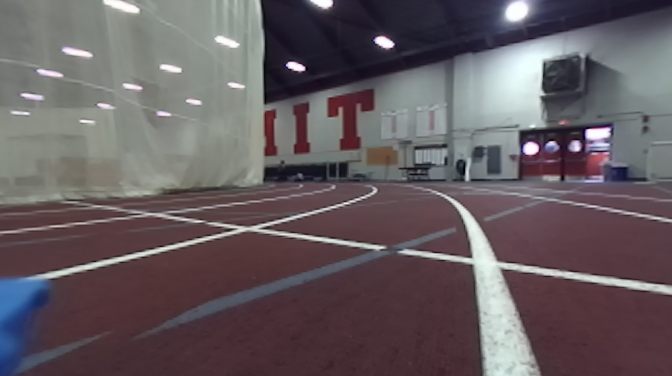
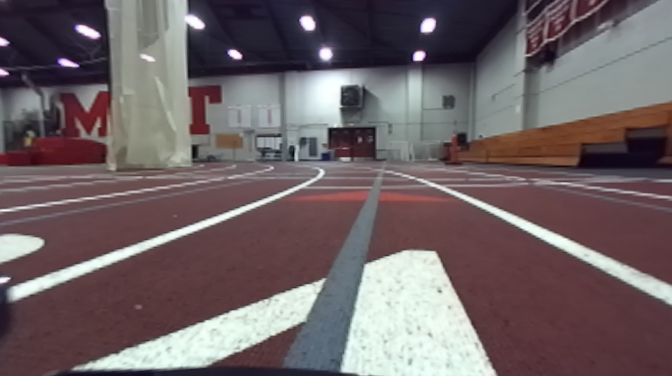
Made full loop forwards except hard part

diff --git a/src/computer_vision/color_segmentation.py b/src/computer_vision/color_segmentation.py
@@ -26,7 +26,7 @@ VERTICAL_OFFSET = 650 # Decreasing raises the height where we start obscuring vi
 # Line Following Parameters
 LEFT_BOUND = int(WIDTH*(2.5/10.0)) # Decreasing this ignores potential left lanes further right
 RIGHT_BOUND = int(WIDTH * (9.0/10.0))  # Increasing this ignores potential right lanes further left
-VERTICAL_SLOPE = 0.24 # What slope of line do we want to consider a lane?
+VERTICAL_SLOPE = 0.35 # What slope of line do we want to consider a lane?
 
 # Important Tuning Parameters
 LOOKAHEAD = int(float(HEIGHT) * 0.5) # Decreasing this makes the target point further away from the camera
@@ -91,16 +91,16 @@ def cd_color_segmentation(image, obstruct_view=True, visualize=False):
 	for line in lines:
 		x_1, y_1, x_2, y_2 = line[0]
 		slope, intercept = np.polyfit((x_1, x_2), (y_1, y_2), 1)
-		if slope < -VERTICAL_SLOPE and x_1 < LEFT_BOUND:
+		if slope < -VERTICAL_SLOPE and x_1 < LEFT_BOUND and x_2 < LEFT_BOUND:
 			left_lanes.append((slope, intercept))
 		elif slope > VERTICAL_SLOPE and x_1 < RIGHT_BOUND:
 			right_lanes.append((slope, intercept))
 
 	# Handle Missing Lane Recovery
 	if len(left_lanes) == 0:
-		left_lanes.append((-1.0,0))
+		left_lanes.append((-0.5,250))
 	if len(right_lanes) == 0:
-		right_lanes.append((0.5, -100))
+		right_lanes.append((0.5, -75))
 
 	# Fit average left and right lane estimate
 	left_slope, left_intercept = np.average(left_lanes, axis=0)

diff --git a/src/lane_detector.py b/src/lane_detector.py
@@ -25,7 +25,7 @@ class LaneDetector():
         # Subscribe to ZED camera RGB frames
         self.lane_pub = rospy.Publisher("/relative_lane_px", LaneLocationPixel, queue_size=10)
         self.debug_pub = rospy.Publisher("/lane_debug_img", Image, queue_size=10)
-        self.image_sub = rospy.Subscriber("/zed/zed_node/right/image_rect_color", Image, self.image_callback)
+        self.image_sub = rospy.Subscriber("/zed/zed_node/left/image_rect_color", Image, self.image_callback)
         self.bridge = CvBridge() # Converts between ROS images and OpenCV Images
 
     def image_callback(self, image_msg):

diff --git a/src/lane_pursuit.py b/src/lane_pursuit.py
@@ -67,8 +67,8 @@ class LanePursuit():
         ack_drive = AckermannDrive()
         ack_drive.speed = speed
         ack_drive.steering_angle = steering_angle
-        self.max_turn = max(steering_angle, self.max_turn)
-        print(self.max_turn)
+        #self.max_turn = max(steering_angle, self.max_turn)
+        #print(self.max_turn)
 
         #create AckermannDriveStamped object
         ack_stamp = AckermannDriveStamped()
